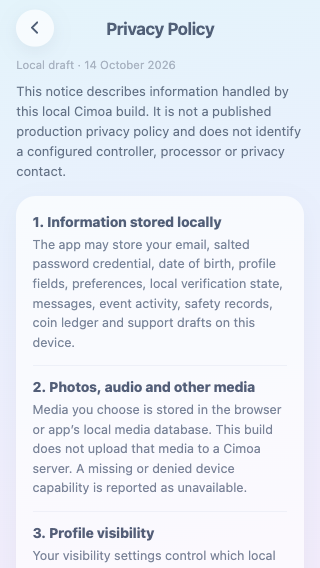
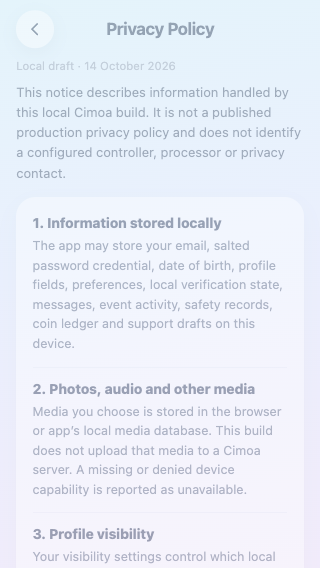
feat(auth): verify privacy restoration

diff --git a/ios/cimoaNeapo/Tests/HostTests.swift b/ios/cimoaNeapo/Tests/HostTests.swift
@@ -1593,6 +1593,35 @@ final class HostTests: XCTestCase {
             try await restore()
         } catch { try? await restore(); throw error }
     }
+    func testLegalPrivacyPixelRestoration() async throws {
+        let host = try await rawHost()
+        let saved = try await script(host, "return localStorage.getItem('cimoa_app_state_v2')")
+        func restore() async throws {
+            _ = try await host.webView.callAsyncJavaScript("if(snapshot===null)localStorage.removeItem('cimoa_app_state_v2');else localStorage.setItem('cimoa_app_state_v2',snapshot);return true", arguments: ["snapshot": saved], in: nil, contentWorld: .page)
+            host.webView.load(URLRequest(url: URL(string: BundleHTTPServer.origin + "/index.html?legalPrivacy=restored#/pages/auth/welcome")!)); try await waitFor(host, ".welcome-page")
+        }
+        do {
+            _ = try await script(host, "localStorage.removeItem('cimoa_app_state_v2');return true")
+            host.webView.load(URLRequest(url: URL(string: BundleHTTPServer.origin + "/index.html?legalPrivacy=native#/pages/legal/privacy")!)); try await waitFor(host, ".legal-privacy-page")
+            var metrics: [String: Any] = [:]
+            for _ in 0..<50 {
+                metrics = try await script(host, """
+                await document.fonts.ready;for(const animation of document.getAnimations())animation.finish();await new Promise(resolve=>requestAnimationFrame(()=>requestAnimationFrame(resolve)));const box=selector=>{const rect=document.querySelector(selector).getBoundingClientRect();return {x:rect.x,y:rect.y,width:rect.width,height:rect.height,bottom:rect.bottom}},root=box('.legal-privacy-page'),header=box('.event-page-header'),back=box('.event-page-round'),scroll=box('.secondary-page-scroll'),updated=box('.legal-document-updated'),intro=box('.legal-document-intro'),card=box('.legal-document-card'),heading=box('.legal-document-heading'),copy=box('.legal-document-copy'),safes=[...document.querySelectorAll('.legal-privacy-page>.safe-area')].map(element=>element.getBoundingClientRect().height),scrolls=[...document.querySelectorAll('.legal-privacy-page .secondary-page-scroll .uni-scroll-view')];return {root,header,back,scroll,updated,intro,card,heading,copy,safes,text:{title:document.querySelector('.event-page-header-title').textContent,updated:document.querySelector('.legal-document-updated').textContent,intro:document.querySelector('.legal-document-intro').textContent,firstHeading:document.querySelector('.legal-document-heading').textContent,footer:document.querySelector('.legal-document-footer').textContent},sections:document.querySelectorAll('.legal-document-section').length,interactions:[...document.querySelectorAll('.legal-privacy-page [data-interaction]')].map(element=>element.dataset.interaction),scrollable:scrolls.some(element=>element.scrollHeight>element.clientHeight),overflow:document.querySelector('.legal-document-card').scrollWidth>document.querySelector('.legal-document-card').clientWidth}
+                """) as! [String: Any]
+                let safes = metrics["safes"] as! [Double]
+                if abs(safes[0] - Double(host.view.safeAreaInsets.top)) <= 1, abs(safes[1] - Double(host.view.safeAreaInsets.bottom)) <= 1 { break }
+                host.publishSafeArea(); try await Task.sleep(nanoseconds: 100_000_000)
+            }
+            let root=metrics["root"] as! [String:Double],header=metrics["header"] as! [String:Double],back=metrics["back"] as! [String:Double],scroll=metrics["scroll"] as! [String:Double],updated=metrics["updated"] as! [String:Double],intro=metrics["intro"] as! [String:Double],card=metrics["card"] as! [String:Double],heading=metrics["heading"] as! [String:Double],copy=metrics["copy"] as! [String:Double],safes=metrics["safes"] as! [Double],text=metrics["text"] as! [String:String],interactions=metrics["interactions"] as! [String],scale=root["width"]!/393
+            XCTAssertEqual(safes[0],Double(host.view.safeAreaInsets.top),accuracy:1); XCTAssertEqual(safes[1],Double(host.view.safeAreaInsets.bottom),accuracy:1); XCTAssertEqual(back["y"]!,safes[0]+4*scale,accuracy:1); XCTAssertEqual(back["width"]!,46*scale,accuracy:1); XCTAssertEqual(header["height"]!,64*scale,accuracy:1); XCTAssertEqual(scroll["y"]!,safes[0]+64*scale,accuracy:1); XCTAssertEqual(updated["x"]!,20*scale,accuracy:1); XCTAssertEqual(intro["y"]!-updated["bottom"]!,12*scale,accuracy:1); XCTAssertEqual(card["y"]!-intro["bottom"]!,18*scale,accuracy:1); XCTAssertEqual(heading["x"]!,40*scale,accuracy:1); XCTAssertEqual(copy["y"]!-heading["bottom"]!,6*scale,accuracy:1)
+            XCTAssertEqual(text["title"],"Privacy Policy"); XCTAssertEqual(text["updated"],"Local draft · 14 October 2026"); XCTAssertTrue(text["intro"]?.contains("not a published production privacy policy") == true); XCTAssertEqual(text["firstHeading"],"1. Information stored locally"); XCTAssertTrue(text["footer"]?.contains("No production privacy or support contact") == true); XCTAssertEqual(metrics["sections"] as? Int,9); XCTAssertEqual(interactions,["isLegalDoc.goBack.click.1"]); XCTAssertEqual(metrics["scrollable"] as? Bool,true); XCTAssertEqual(metrics["overflow"] as? Bool,false)
+            let shot=XCTAttachment(image:try await host.webView.takeSnapshot(configuration:nil)); shot.name="WKWebView Privacy Policy default"; shot.lifetime = .keepAlways; add(shot); print("CIMOA_LEGAL_PRIVACY_SAFE_AREA top=\(safes[0]) bottom=\(safes[1]) viewport=\(root["width"] ?? -1)x\(root["height"] ?? -1)")
+            let before = try await script(host,"return localStorage.getItem('cimoa_app_state_v2')")
+            _ = try await script(host,"const rows=[...document.querySelectorAll('.legal-privacy-page .secondary-page-scroll .uni-scroll-view')],scroll=rows.find(element=>element.scrollHeight>element.clientHeight);scroll.scrollTop=scroll.scrollHeight;return document.querySelector('.legal-document-footer').textContent"); let afterScroll = try await script(host,"return localStorage.getItem('cimoa_app_state_v2')"); XCTAssertEqual(String(describing: afterScroll),String(describing: before))
+            _ = try await script(host,"document.querySelector('[data-interaction=\"isLegalDoc.goBack.click.1\"]').click();return true"); try await waitFor(host,".welcome-page"); let afterBack = try await script(host,"return localStorage.getItem('cimoa_app_state_v2')"); XCTAssertEqual(String(describing: afterBack),String(describing: before))
+            try await restore()
+        } catch { try? await restore(); throw error }
+    }
     func testResetCodePixelRestoration() async throws {
         let host = try await rawHost()
         let saved = try await script(host, "return localStorage.getItem('cimoa_app_state_v2')")

diff --git a/docs/ui-restoration/legal-privacy/difference-audit.md b/docs/ui-restoration/legal-privacy/difference-audit.md
@@ -1,0 +1,15 @@
+# Privacy Policy 来源锁定与差异审计
+
+## 当前结论
+
+锁定 HTML 原型 1034–1054 行及 6011–6017 行。已恢复 `Privacy Policy`、58px Header、118px 滚动起点和来源长文排版。原型中的生产数据收集、服务商共享、审核团队和 `privacy@circa.app` 均未配置，因此保留明确标记为 unpublished local draft 的真实内容。浏览器、320×568 安全区探针和 iPhone 17 Pro WKWebView 均通过，当前 `status: verified`、`visual_acceptance: passed`。
+
+| ID | 项目 | 来源 | 当前实现 | 处理 |
+| --- | --- | --- | --- | --- |
+| LGP-001 | Header | `Privacy Policy`；Back y=58 | 来源标题与几何 | 浏览器与 WKWebView 通过 |
+| LGP-002 | Scroll | y=118；左右 20px；底部 48px | 单一 scroll-view | 通过 |
+| LGP-003 | Updated | 生产日期 | `Local draft · 14 October 2026` | 批准差异，明确未发布 |
+| LGP-004 | Intro/sections | 声称生产收集、共享、审核与服务商 | 九节本机数据范围和缺口说明 | 批准差异，禁止虚假服务 |
+| LGP-005 | Contact | `privacy@circa.app` | 明确未配置生产隐私/支持联系方式 | 批准差异，禁止编造联系人 |
+| LGP-006 | 刷新/返回 | 返回来源页 | Guest 回 Welcome；登录用户回 Settings Legal | 通过 |
+| LGP-007 | 状态 | 阅读型页面 | 全程零写入 | 通过 |
